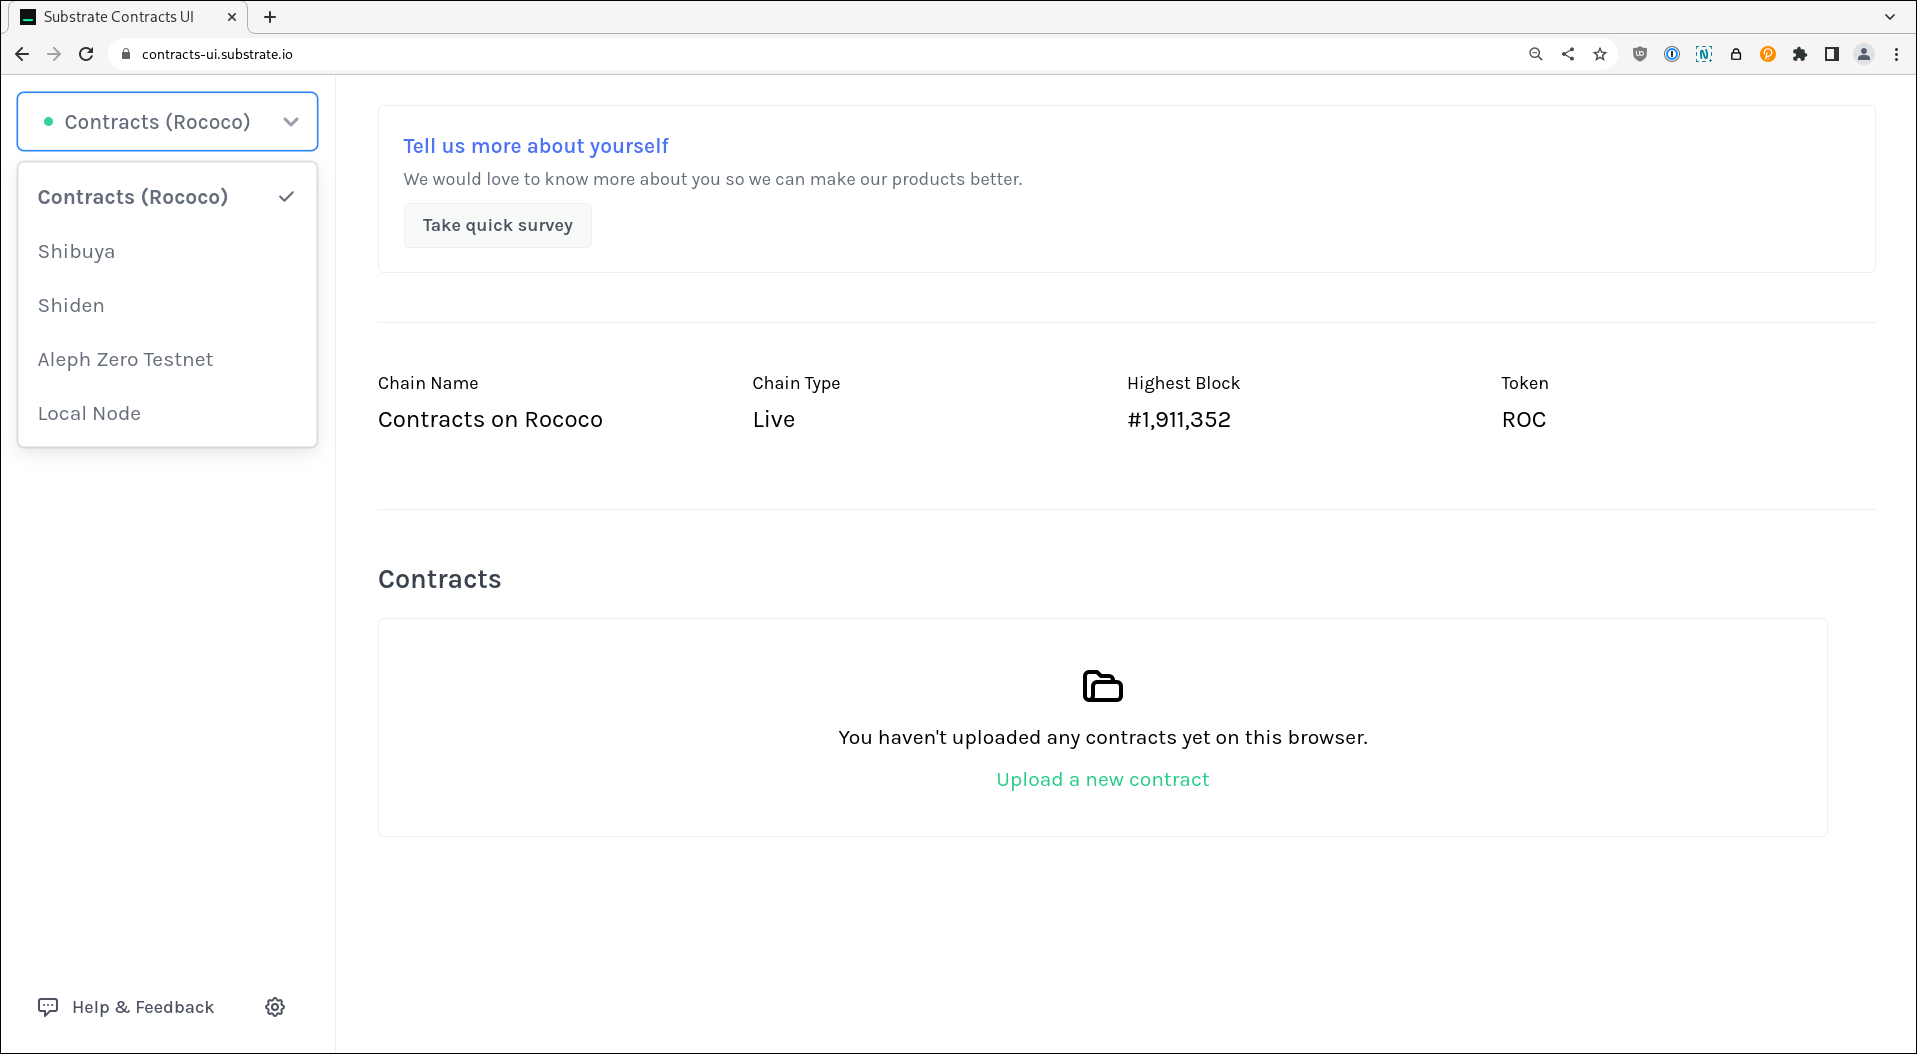
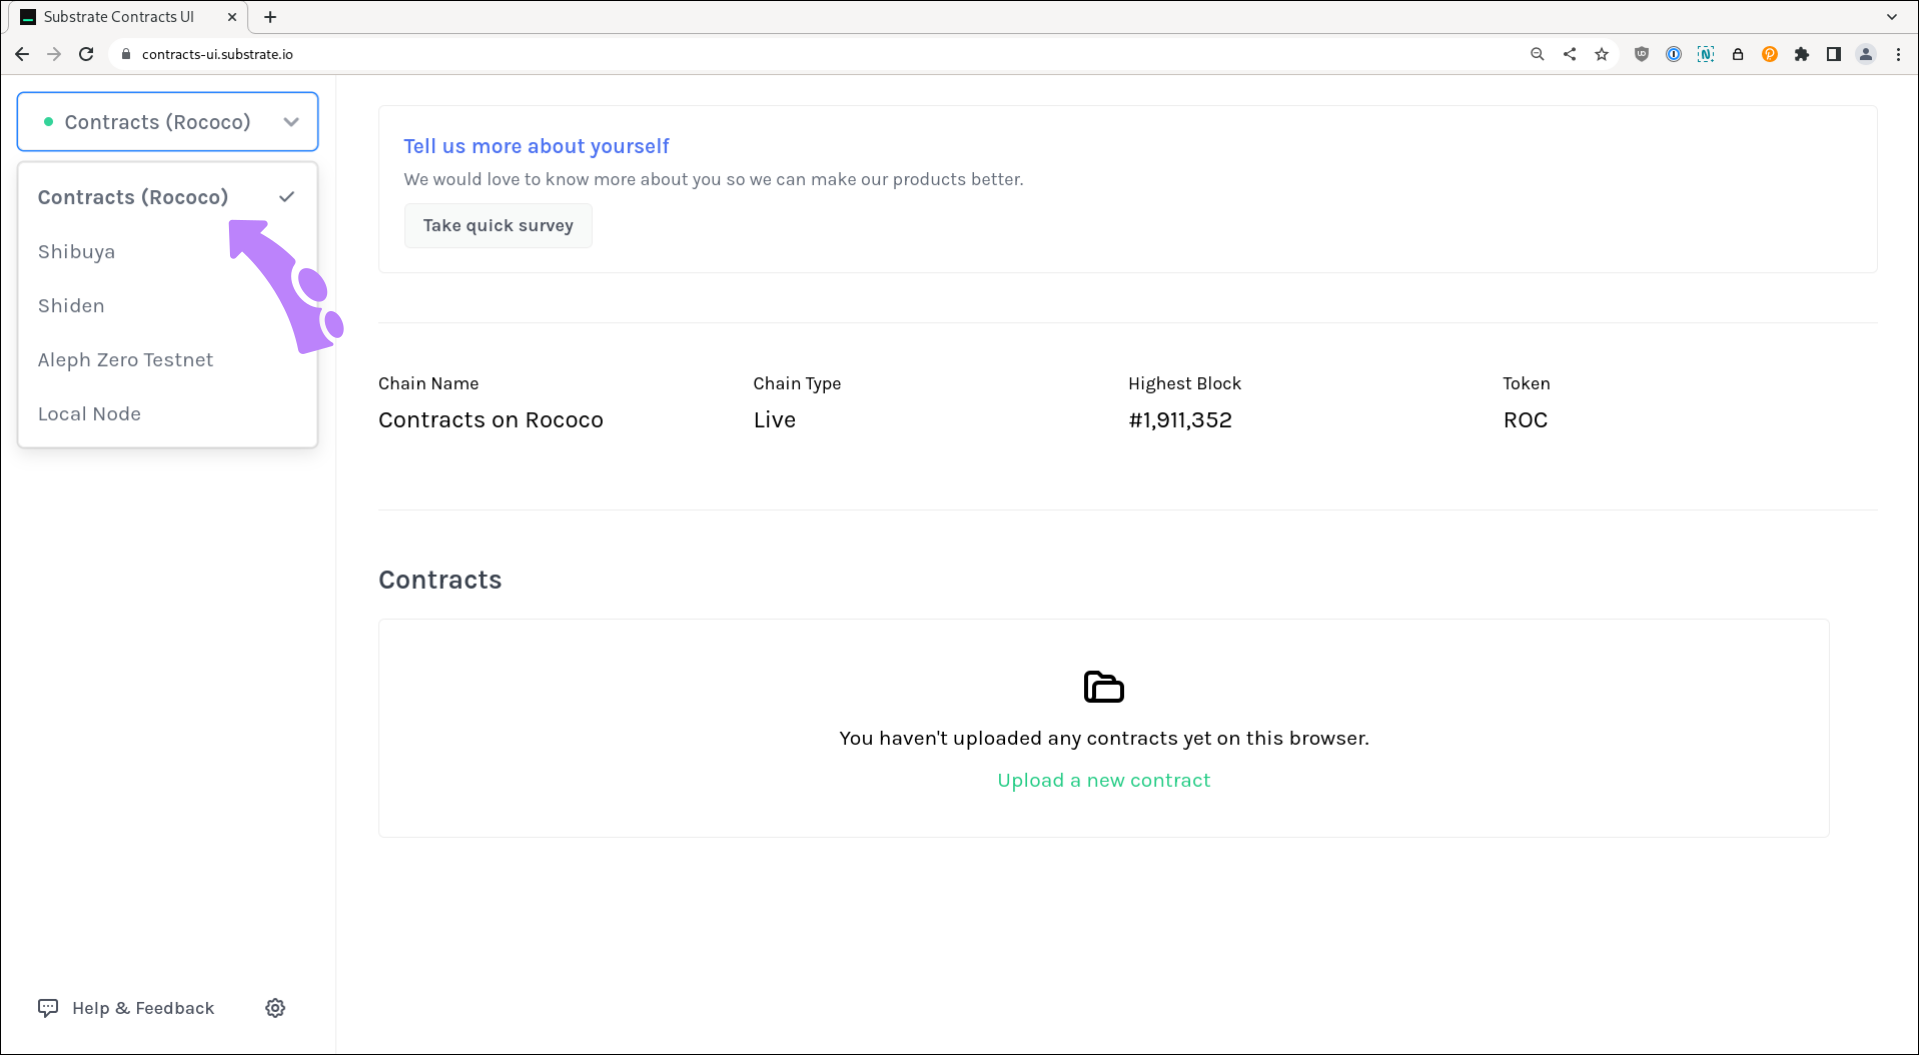
Add arrows to images

diff --git a/todo-2.md b/todo-2.md
@@ -35,8 +35,6 @@ target/ink/basic_player.contract
 
 <img src=".images/s2.png" />
 
-<img src=".images/s3.png" />
-
 Upload `target/ink/basic_player.contract`:
 
 <img src=".images/s4.png" />
